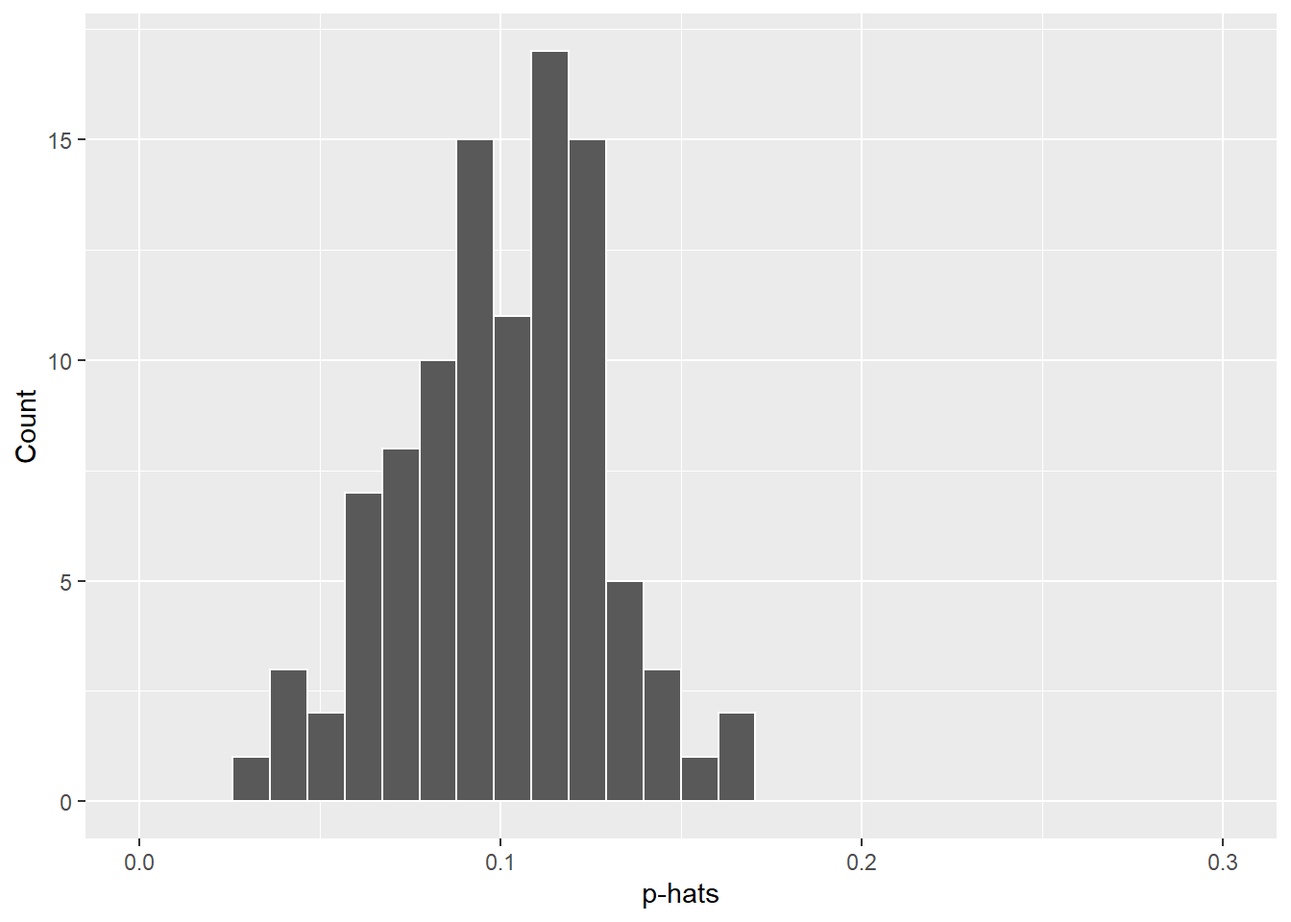
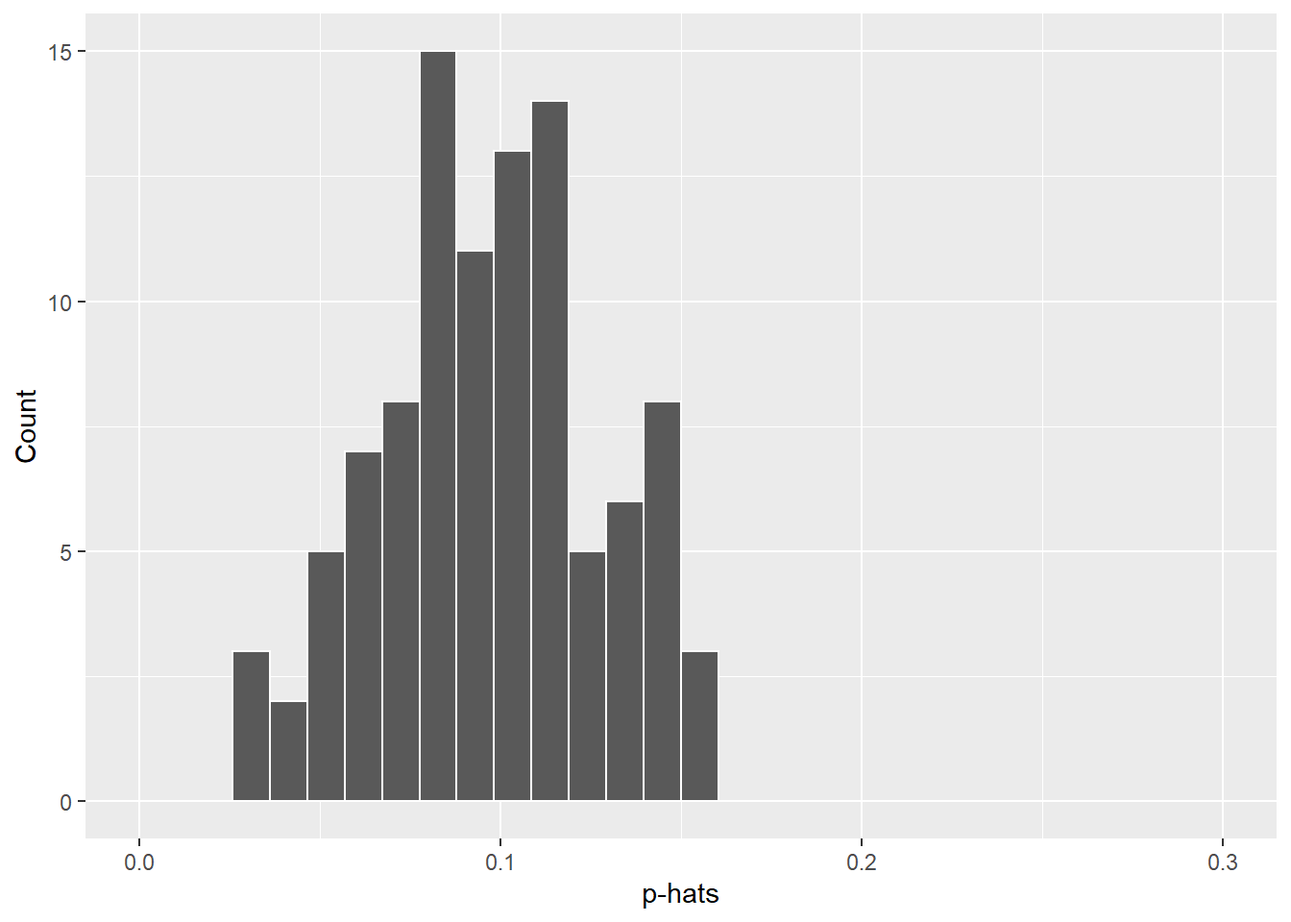
Update 16112022 1702

diff --git a/docs/success-failure-condition.html b/docs/success-failure-condition.html
@@ -163,7 +163,6 @@ code span.wa { color: #60a0b0; font-weight: bold; font-style: italic; } /* Warni
 <li class="chapter" data-level="" data-path="group-tasks.html"><a href="group-tasks.html#task-2"><i class="fa fa-check"></i>Task 2</a></li>
 <li class="chapter" data-level="" data-path="group-tasks.html"><a href="group-tasks.html#task-3"><i class="fa fa-check"></i>Task 3</a></li>
 <li class="chapter" data-level="" data-path="group-tasks.html"><a href="group-tasks.html#task-4"><i class="fa fa-check"></i>Task 4</a></li>
-<li class="chapter" data-level="" data-path="group-tasks.html"><a href="group-tasks.html#task-5"><i class="fa fa-check"></i>Task 5</a></li>
 </ul></li>
 </ul>
 
@@ -191,11 +190,11 @@ thumb is easy enough to follow, but it makes you wonder: what's so special about
 <p>Using the numerical and graphical summaries below, describe the sampling distribution of sample proportions at <span class="math inline">\(n=100\)</span> and <span class="math inline">\(p=0.1\)</span>. Be sure to note the centre, spread, and shape.</p>
 <p><img src="main_files/figure-html/plotex6-1.png" width="672" style="display: block; margin: auto;" /></p>
 <pre><code>##    Min. 1st Qu.  Median    Mean 3rd Qu.    Max. 
-## 0.03382 0.08240 0.10039 0.10006 0.11924 0.16539</code></pre>
+## 0.02944 0.07877 0.09666 0.09735 0.11469 0.16014</code></pre>
 <p><br></p>
 <strong>Describe the sampling distribution of sample proportions at n=100 and p=0.1. Consider the centre, spread, and shape.</strong>
-<div id="radio_IIVNVIXPEM" class="webex-radiogroup">
-<label><input type="radio" autocomplete="off" name="radio_IIVNVIXPEM" value=""></input> <span>The distribution seems approximately Normal, centred around n=100 and a relatively large spread/standard deviation since n=100 isn’t particularly large.</span></label><label><input type="radio" autocomplete="off" name="radio_IIVNVIXPEM" value="answer"></input> <span>The distribution seems approximately Normal, centred around the mean (approximately equal to p) and a relatively large spread/standard deviation since n=100 isn’t particularly large.</span></label><label><input type="radio" autocomplete="off" name="radio_IIVNVIXPEM" value=""></input> <span>The distribution seems approximately Binomial, centred around the median and a tiny spread/standard deviation since n=100 is huge.</span></label><label><input type="radio" autocomplete="off" name="radio_IIVNVIXPEM" value=""></input> <span>The distribution seems approximately Poisson, centred around the mean (approximately equal to p) and a relatively large spread/standard deviation since n=100 isn’t particularly large.</span></label>
+<div id="radio_VFGQLCTIKZ" class="webex-radiogroup">
+<label><input type="radio" autocomplete="off" name="radio_VFGQLCTIKZ" value=""></input> <span>The distribution seems approximately Poisson, centred around the mean (approximately equal to p) and a relatively large spread/standard deviation since n=100 isn’t particularly large.</span></label><label><input type="radio" autocomplete="off" name="radio_VFGQLCTIKZ" value=""></input> <span>The distribution seems approximately Normal, centred around n=100 and a relatively large spread/standard deviation since n=100 isn’t particularly large.</span></label><label><input type="radio" autocomplete="off" name="radio_VFGQLCTIKZ" value="answer"></input> <span>The distribution seems approximately Normal, centred around the mean (approximately equal to p) and a relatively large spread/standard deviation since n=100 isn’t particularly large.</span></label><label><input type="radio" autocomplete="off" name="radio_VFGQLCTIKZ" value=""></input> <span>The distribution seems approximately Binomial, centred around the median and a tiny spread/standard deviation since n=100 is huge.</span></label>
 </div>
 <div class="webex-solution">
 <button>
@@ -228,8 +227,8 @@ Solution
 </div>
 <p><br></p>
 <strong>How does <span class="math inline">\(n\)</span> appear to affect the distribution of p-hat?</strong>
-<div id="radio_HQIYIBWLYS" class="webex-radiogroup">
-<label><input type="radio" autocomplete="off" name="radio_HQIYIBWLYS" value=""></input> <span>There doesn't seem to be any significant effect of n on p-hat.</span></label><label><input type="radio" autocomplete="off" name="radio_HQIYIBWLYS" value="answer"></input> <span>A decrease in n does not appear to affect the centre/symmetric point of the graph, however it does result in a much wider/more spread out distribution.</span></label><label><input type="radio" autocomplete="off" name="radio_HQIYIBWLYS" value=""></input> <span>An increase/decrease in n appears to shift the centre point of the distribution left/right.</span></label><label><input type="radio" autocomplete="off" name="radio_HQIYIBWLYS" value=""></input> <span>An increase in n appears to give a wider, more spread out distribution of p-hat.</span></label>
+<div id="radio_HCNPISYDLK" class="webex-radiogroup">
+<label><input type="radio" autocomplete="off" name="radio_HCNPISYDLK" value="answer"></input> <span>A decrease in n does not appear to affect the centre/symmetric point of the graph, however it does result in a much wider/more spread out distribution.</span></label><label><input type="radio" autocomplete="off" name="radio_HCNPISYDLK" value=""></input> <span>There doesn't seem to be any significant effect of n on p-hat.</span></label><label><input type="radio" autocomplete="off" name="radio_HCNPISYDLK" value=""></input> <span>An increase in n appears to give a wider, more spread out distribution of p-hat.</span></label><label><input type="radio" autocomplete="off" name="radio_HCNPISYDLK" value=""></input> <span>An increase/decrease in n appears to shift the centre point of the distribution left/right.</span></label>
 </div>
 <div class="webex-solution">
 <button>
@@ -264,8 +263,8 @@ Solution
 </div>
 <p><br></p>
 <strong>How does <span class="math inline">\(p\)</span> appear to affect the distribution of p-hat?</strong>
-<div id="radio_XQRONUEPVB" class="webex-radiogroup">
-<label><input type="radio" autocomplete="off" name="radio_XQRONUEPVB" value=""></input> <span>Increasing p shifts the centre/symmetric point of the distribution to the left.</span></label><label><input type="radio" autocomplete="off" name="radio_XQRONUEPVB" value=""></input> <span>There doesn't seem to be any significant effect of p on p-hat.</span></label><label><input type="radio" autocomplete="off" name="radio_XQRONUEPVB" value=""></input> <span>The width/spread of the distribution also decreases as p decreases.</span></label><label><input type="radio" autocomplete="off" name="radio_XQRONUEPVB" value="answer"></input> <span>A decrease in p does not appear to affect the width, however the centre/symmetric point shifts.</span></label>
+<div id="radio_DEZXKQQLWG" class="webex-radiogroup">
+<label><input type="radio" autocomplete="off" name="radio_DEZXKQQLWG" value=""></input> <span>There doesn't seem to be any significant effect of p on p-hat.</span></label><label><input type="radio" autocomplete="off" name="radio_DEZXKQQLWG" value="answer"></input> <span>A decrease in p does not appear to affect the width, however the centre/symmetric point shifts.</span></label><label><input type="radio" autocomplete="off" name="radio_DEZXKQQLWG" value=""></input> <span>Increasing p shifts the centre/symmetric point of the distribution to the left.</span></label><label><input type="radio" autocomplete="off" name="radio_DEZXKQQLWG" value=""></input> <span>The width/spread of the distribution also decreases as p decreases.</span></label>
 </div>
 <div class="webex-solution">
 <button>

diff --git a/docs/how-does-the-proportion-affect-the-margin-of-error.html b/docs/how-does-the-proportion-affect-the-margin-of-error.html
@@ -163,7 +163,6 @@ code span.wa { color: #60a0b0; font-weight: bold; font-style: italic; } /* Warni
 <li class="chapter" data-level="" data-path="group-tasks.html"><a href="group-tasks.html#task-2"><i class="fa fa-check"></i>Task 2</a></li>
 <li class="chapter" data-level="" data-path="group-tasks.html"><a href="group-tasks.html#task-3"><i class="fa fa-check"></i>Task 3</a></li>
 <li class="chapter" data-level="" data-path="group-tasks.html"><a href="group-tasks.html#task-4"><i class="fa fa-check"></i>Task 4</a></li>
-<li class="chapter" data-level="" data-path="group-tasks.html"><a href="group-tasks.html#task-5"><i class="fa fa-check"></i>Task 5</a></li>
 </ul></li>
 </ul>
 
@@ -207,8 +206,8 @@ Since the population proportion <span class="math inline">\(p\)</span> is in thi
 <p><img src="main_files/figure-html/me-plot-1.png" width="672" style="display: block; margin: auto;" /></p>
 <p><br></p>
 <strong>How would you describe the relationship between <code>p</code> and <code>ME</code>?</strong>
-<div id="radio_BZEHSGKLOT" class="webex-radiogroup">
-<label><input type="radio" autocomplete="off" name="radio_BZEHSGKLOT" value=""></input> <span>They have an inverse cubic relationship.</span></label><label><input type="radio" autocomplete="off" name="radio_BZEHSGKLOT" value=""></input> <span>They have a linear relationship.</span></label><label><input type="radio" autocomplete="off" name="radio_BZEHSGKLOT" value=""></input> <span>p and ME do not appear to be related.</span></label><label><input type="radio" autocomplete="off" name="radio_BZEHSGKLOT" value="answer"></input> <span>p and ME have a quadratic or parabolic relationship.</span></label>
+<div id="radio_TJOGIYCNIS" class="webex-radiogroup">
+<label><input type="radio" autocomplete="off" name="radio_TJOGIYCNIS" value=""></input> <span>They have an inverse cubic relationship.</span></label><label><input type="radio" autocomplete="off" name="radio_TJOGIYCNIS" value=""></input> <span>They have a linear relationship.</span></label><label><input type="radio" autocomplete="off" name="radio_TJOGIYCNIS" value=""></input> <span>p and ME do not appear to be related.</span></label><label><input type="radio" autocomplete="off" name="radio_TJOGIYCNIS" value="answer"></input> <span>p and ME have a quadratic or parabolic relationship.</span></label>
 </div>
 <div class="webex-solution">
 <button>
@@ -218,8 +217,8 @@ Hint
 </div>
 <p><br></p>
 <strong>Select the INCORRECT statement:</strong>
-<div id="radio_VQAPWKJOKU" class="webex-radiogroup">
-<label><input type="radio" autocomplete="off" name="radio_VQAPWKJOKU" value=""></input> <span>If we were to increase the sample size n, the margin of error would decrease.</span></label><label><input type="radio" autocomplete="off" name="radio_VQAPWKJOKU" value=""></input> <span>You can work out exactly for which value of p the margin of error is maximised mathematically using differentiation.</span></label><label><input type="radio" autocomplete="off" name="radio_VQAPWKJOKU" value="answer"></input> <span>Changing the value of n would make no difference to the graph.</span></label><label><input type="radio" autocomplete="off" name="radio_VQAPWKJOKU" value=""></input> <span>If we lower our confidence value, say from 95% to 90%, the the margin of error would decrease.</span></label>
+<div id="radio_IQRBMXPWPH" class="webex-radiogroup">
+<label><input type="radio" autocomplete="off" name="radio_IQRBMXPWPH" value="answer"></input> <span>Changing the value of n would make no difference to the graph.</span></label><label><input type="radio" autocomplete="off" name="radio_IQRBMXPWPH" value=""></input> <span>You can work out exactly for which value of p the margin of error is maximised mathematically using differentiation.</span></label><label><input type="radio" autocomplete="off" name="radio_IQRBMXPWPH" value=""></input> <span>If we were to increase the sample size n, the margin of error would decrease.</span></label><label><input type="radio" autocomplete="off" name="radio_IQRBMXPWPH" value=""></input> <span>If we lower our confidence value, say from 95% to 90%, the the margin of error would decrease.</span></label>
 </div>
 <div class="webex-solution">
 <button>
@@ -231,8 +230,8 @@ Hint
 <!-- Is this the relationship you expected based on the formula $ME = 1.96\times\sqrt{p(1-p)/n} \,$ ? -->
 <p><br></p>
 <strong>For a given sample size, for which value of <span class="math inline">\(p\)</span> is the margin of error (<span class="math inline">\(ME\)</span>) maximized?</strong>
-<div id="radio_JQVUIARIIB" class="webex-radiogroup">
-<label><input type="radio" autocomplete="off" name="radio_JQVUIARIIB" value="answer"></input> <span>ME is maximised when p = 0.5</span></label><label><input type="radio" autocomplete="off" name="radio_JQVUIARIIB" value=""></input> <span>ME is maximised when p = 1</span></label><label><input type="radio" autocomplete="off" name="radio_JQVUIARIIB" value=""></input> <span>ME is maximised when p = 0</span></label><label><input type="radio" autocomplete="off" name="radio_JQVUIARIIB" value=""></input> <span>ME is maximised when p = 0.33, or a third.</span></label>
+<div id="radio_RXPPKEBZSG" class="webex-radiogroup">
+<label><input type="radio" autocomplete="off" name="radio_RXPPKEBZSG" value=""></input> <span>ME is maximised when p = 0.33, or a third.</span></label><label><input type="radio" autocomplete="off" name="radio_RXPPKEBZSG" value="answer"></input> <span>ME is maximised when p = 0.5</span></label><label><input type="radio" autocomplete="off" name="radio_RXPPKEBZSG" value=""></input> <span>ME is maximised when p = 1</span></label><label><input type="radio" autocomplete="off" name="radio_RXPPKEBZSG" value=""></input> <span>ME is maximised when p = 0</span></label>
 </div>
 <div class="webex-solution">
 <button>

diff --git a/docs/inference-on-proportions.html b/docs/inference-on-proportions.html
@@ -163,7 +163,6 @@ code span.wa { color: #60a0b0; font-weight: bold; font-style: italic; } /* Warni
 <li class="chapter" data-level="" data-path="group-tasks.html"><a href="group-tasks.html#task-2"><i class="fa fa-check"></i>Task 2</a></li>
 <li class="chapter" data-level="" data-path="group-tasks.html"><a href="group-tasks.html#task-3"><i class="fa fa-check"></i>Task 3</a></li>
 <li class="chapter" data-level="" data-path="group-tasks.html"><a href="group-tasks.html#task-4"><i class="fa fa-check"></i>Task 4</a></li>
-<li class="chapter" data-level="" data-path="group-tasks.html"><a href="group-tasks.html#task-5"><i class="fa fa-check"></i>Task 5</a></li>
 </ul></li>
 </ul>
 
@@ -222,8 +221,8 @@ Solution
 </div>
 <p><br></p>
 <strong>What could you interpret from this confidence interval?</strong>
-<div id="radio_DGWQZLUOUG" class="webex-radiogroup">
-<label><input type="radio" autocomplete="off" name="radio_DGWQZLUOUG" value=""></input> <span>The proportion we calculated in outside of the interval calculated here, therefore we cannot make any valid interpretations.</span></label><label><input type="radio" autocomplete="off" name="radio_DGWQZLUOUG" value=""></input> <span>We are 95% confident the true proportion of non-helmet wearing students that texted while driving in all 30 of the previous 30 days is exactly 0.076, since this is inside the confidence interval.</span></label><label><input type="radio" autocomplete="off" name="radio_DGWQZLUOUG" value="answer"></input> <span>We are 95% confident the true proportion of non-helmet wearing students that texted while driving in all 30 of the previous 30 days is somewhere between 0.069 and 0.084.</span></label><label><input type="radio" autocomplete="off" name="radio_DGWQZLUOUG" value=""></input> <span>We are 90% confident the true proportion of non-helmet wearing students that texted while driving in all 30 of the previous 30 days is somewhere between 0.069 and 0.084.</span></label>
+<div id="radio_AJEPUOXPMI" class="webex-radiogroup">
+<label><input type="radio" autocomplete="off" name="radio_AJEPUOXPMI" value="answer"></input> <span>We are 95% confident the true proportion of non-helmet wearing students that texted while driving in all 30 of the previous 30 days is somewhere between 0.069 and 0.084.</span></label><label><input type="radio" autocomplete="off" name="radio_AJEPUOXPMI" value=""></input> <span>The proportion we calculated in outside of the interval calculated here, therefore we cannot make any valid interpretations.</span></label><label><input type="radio" autocomplete="off" name="radio_AJEPUOXPMI" value=""></input> <span>We are 90% confident the true proportion of non-helmet wearing students that texted while driving in all 30 of the previous 30 days is somewhere between 0.069 and 0.084.</span></label><label><input type="radio" autocomplete="off" name="radio_AJEPUOXPMI" value=""></input> <span>We are 95% confident the true proportion of non-helmet wearing students that texted while driving in all 30 of the previous 30 days is exactly 0.076, since this is inside the confidence interval.</span></label>
 </div>
 <div class="webex-solution">
 <button>
@@ -334,8 +333,8 @@ Solution (b)
 </div>
 <p><br></p>
 <strong>How could you compare the two CI for proportions calculated above?</strong>
-<div id="radio_PYGCMDONFT" class="webex-radiogroup">
-<label><input type="radio" autocomplete="off" name="radio_PYGCMDONFT" value="answer"></input> <span>The proportion of non helmet wearing strength trainers is probably much greater than the proportion of non-helmet wearing people with less than 5 hours sleep, since the CI is far above.</span></label><label><input type="radio" autocomplete="off" name="radio_PYGCMDONFT" value=""></input> <span>The proportion of non-helmet wearing strength trainers probably equals the proportion of non-helmet wearing students that gets less than 5 hours sleep.</span></label><label><input type="radio" autocomplete="off" name="radio_PYGCMDONFT" value=""></input> <span>We can make no comparisons between the two groups whatsoever at this stage of the analysis.</span></label><label><input type="radio" autocomplete="off" name="radio_PYGCMDONFT" value=""></input> <span>The CI for the proportion of non-helmet wearing strength trainers seems far wider than the CI for the proportion of non-helmet wearing students with less than 5 hours sleep.</span></label>
+<div id="radio_ZIHFIUKLLV" class="webex-radiogroup">
+<label><input type="radio" autocomplete="off" name="radio_ZIHFIUKLLV" value="answer"></input> <span>The proportion of non helmet wearing strength trainers is probably much greater than the proportion of non-helmet wearing people with less than 5 hours sleep, since the CI is far above.</span></label><label><input type="radio" autocomplete="off" name="radio_ZIHFIUKLLV" value=""></input> <span>We can make no comparisons between the two groups whatsoever at this stage of the analysis.</span></label><label><input type="radio" autocomplete="off" name="radio_ZIHFIUKLLV" value=""></input> <span>The CI for the proportion of non-helmet wearing strength trainers seems far wider than the CI for the proportion of non-helmet wearing students with less than 5 hours sleep.</span></label><label><input type="radio" autocomplete="off" name="radio_ZIHFIUKLLV" value=""></input> <span>The proportion of non-helmet wearing strength trainers probably equals the proportion of non-helmet wearing students that gets less than 5 hours sleep.</span></label>
 </div>
 <div class="webex-solution">
 <button>

diff --git a/docs/group-tasks.html b/docs/group-tasks.html
@@ -163,7 +163,6 @@ code span.wa { color: #60a0b0; font-weight: bold; font-style: italic; } /* Warni
 <li class="chapter" data-level="" data-path="group-tasks.html"><a href="group-tasks.html#task-2"><i class="fa fa-check"></i>Task 2</a></li>
 <li class="chapter" data-level="" data-path="group-tasks.html"><a href="group-tasks.html#task-3"><i class="fa fa-check"></i>Task 3</a></li>
 <li class="chapter" data-level="" data-path="group-tasks.html"><a href="group-tasks.html#task-4"><i class="fa fa-check"></i>Task 4</a></li>
-<li class="chapter" data-level="" data-path="group-tasks.html"><a href="group-tasks.html#task-5"><i class="fa fa-check"></i>Task 5</a></li>
 </ul></li>
 </ul>
 
@@ -218,9 +217,6 @@ code span.wa { color: #60a0b0; font-weight: bold; font-style: italic; } /* Warni
 <label><input type="radio" autocomplete="off" name="radio_GVFNVHHBPV" value=""></input> <span>The two confidence intervals do not overlap, therefore there is no evidence of the USA seeing a change in it's atheism index</span></label><label><input type="radio" autocomplete="off" name="radio_GVFNVHHBPV" value="answer"></input> <span>The two confidence intervals do not overlap, therefore there is evidence of the USA seeing a change in it's atheism index
 </span></label><label><input type="radio" autocomplete="off" name="radio_GVFNVHHBPV" value=""></input> <span>The two confidence intervals overlap, therefore there is no evidence of the USA seeing a change in it's atheism index</span></label><label><input type="radio" autocomplete="off" name="radio_GVFNVHHBPV" value=""></input> <span>The two confidence intervals overlap, therefore there is evidence of the USA seeing a change in it's atheism index</span></label>
 </div>
-</div>
-<div id="task-4" class="section level3 unnumbered hasAnchor">
-<h3>Task 4<a href="group-tasks.html#task-4" class="anchor-section" aria-label="Anchor link to header"></a></h3>
 <p><strong>If in reality there has been no change in the atheism index in <em>any</em> of the countries, in how many of the countries would you expect to detect a change (at a significance level of 0.05) simply by chance?</strong> <em>(to the nearest whole number)</em>
 <input class='webex-solveme nospaces' size='1' data-answer='["3"]'/></p>
 <div class="webex-solution">
@@ -230,8 +226,8 @@ Hint
 <p>We need to take the probability of a Type 1 error (rejecting the null hypothesis when <span class="math inline">\(H_0\)</span> is actually true) and times it by 57 (the number of countries within <code>atheism</code>). The probability of a Type 1 error is simply the significance level alpha, in this case, 0.05.</p>
 </div>
 </div>
-<div id="task-5" class="section level3 unnumbered hasAnchor">
-<h3>Task 5<a href="group-tasks.html#task-5" class="anchor-section" aria-label="Anchor link to header"></a></h3>
+<div id="task-4" class="section level3 unnumbered hasAnchor">
+<h3>Task 4<a href="group-tasks.html#task-4" class="anchor-section" aria-label="Anchor link to header"></a></h3>
 <p>Suppose you’re hired by the local government to estimate the proportion of residents that attend a religious service on a weekly basis. According to the guidelines, the estimate must have a margin of error no greater than 1% with 95% confidence. You have no idea what to expect for <span class="math inline">\(p\)</span>, so assume <span class="math inline">\(p=0.5\)</span>. Use <code>R</code> as a calculator to determine how many people would you have to sample to ensure that you are within the guidelines?</p>
 <p><strong>Note</strong> You don't need to use the <code>atheism</code> data set to answer this question.</p>
 

diff --git a/docs/inference-for-categorical-data.html b/docs/inference-for-categorical-data.html
@@ -163,7 +163,6 @@ code span.wa { color: #60a0b0; font-weight: bold; font-style: italic; } /* Warni
 <li class="chapter" data-level="" data-path="group-tasks.html"><a href="group-tasks.html#task-2"><i class="fa fa-check"></i>Task 2</a></li>
 <li class="chapter" data-level="" data-path="group-tasks.html"><a href="group-tasks.html#task-3"><i class="fa fa-check"></i>Task 3</a></li>
 <li class="chapter" data-level="" data-path="group-tasks.html"><a href="group-tasks.html#task-4"><i class="fa fa-check"></i>Task 4</a></li>
-<li class="chapter" data-level="" data-path="group-tasks.html"><a href="group-tasks.html#task-5"><i class="fa fa-check"></i>Task 5</a></li>
 </ul></li>
 </ul>
 
@@ -240,8 +239,8 @@ Solution
 </div>
 <p><br></p>
 <strong>Which category has the highest count?</strong>
-<div id="radio_JNQZPULECS" class="webex-radiogroup">
-<label><input type="radio" autocomplete="off" name="radio_JNQZPULECS" value=""></input> <span>All 30 of the last 30 days.</span></label><label><input type="radio" autocomplete="off" name="radio_JNQZPULECS" value=""></input> <span>6-9 of the last 30 days</span></label><label><input type="radio" autocomplete="off" name="radio_JNQZPULECS" value="answer"></input> <span>0 of the last 30 days</span></label><label><input type="radio" autocomplete="off" name="radio_JNQZPULECS" value=""></input> <span>The students that didn't drive</span></label>
+<div id="radio_NLUNUQMALK" class="webex-radiogroup">
+<label><input type="radio" autocomplete="off" name="radio_NLUNUQMALK" value=""></input> <span>6-9 of the last 30 days</span></label><label><input type="radio" autocomplete="off" name="radio_NLUNUQMALK" value=""></input> <span>All 30 of the last 30 days.</span></label><label><input type="radio" autocomplete="off" name="radio_NLUNUQMALK" value="answer"></input> <span>0 of the last 30 days</span></label><label><input type="radio" autocomplete="off" name="radio_NLUNUQMALK" value=""></input> <span>The students that didn't drive</span></label>
 </div>
 <div class="webex-solution">
 <button>

diff --git a/docs/404.html b/docs/404.html
@@ -163,7 +163,6 @@ code span.wa { color: #60a0b0; font-weight: bold; font-style: italic; } /* Warni
 <li class="chapter" data-level="" data-path="group-tasks.html"><a href="group-tasks.html#task-2"><i class="fa fa-check"></i>Task 2</a></li>
 <li class="chapter" data-level="" data-path="group-tasks.html"><a href="group-tasks.html#task-3"><i class="fa fa-check"></i>Task 3</a></li>
 <li class="chapter" data-level="" data-path="group-tasks.html"><a href="group-tasks.html#task-4"><i class="fa fa-check"></i>Task 4</a></li>
-<li class="chapter" data-level="" data-path="group-tasks.html"><a href="group-tasks.html#task-5"><i class="fa fa-check"></i>Task 5</a></li>
 </ul></li>
 </ul>
 

diff --git a/docs/data.html b/docs/data.html
@@ -163,7 +163,6 @@ code span.wa { color: #60a0b0; font-weight: bold; font-style: italic; } /* Warni
 <li class="chapter" data-level="" data-path="group-tasks.html"><a href="group-tasks.html#task-2"><i class="fa fa-check"></i>Task 2</a></li>
 <li class="chapter" data-level="" data-path="group-tasks.html"><a href="group-tasks.html#task-3"><i class="fa fa-check"></i>Task 3</a></li>
 <li class="chapter" data-level="" data-path="group-tasks.html"><a href="group-tasks.html#task-4"><i class="fa fa-check"></i>Task 4</a></li>
-<li class="chapter" data-level="" data-path="group-tasks.html"><a href="group-tasks.html#task-5"><i class="fa fa-check"></i>Task 5</a></li>
 </ul></li>
 </ul>
 

diff --git a/docs/index.html b/docs/index.html
@@ -163,7 +163,6 @@ code span.wa { color: #60a0b0; font-weight: bold; font-style: italic; } /* Warni
 <li class="chapter" data-level="" data-path="group-tasks.html"><a href="group-tasks.html#task-2"><i class="fa fa-check"></i>Task 2</a></li>
 <li class="chapter" data-level="" data-path="group-tasks.html"><a href="group-tasks.html#task-3"><i class="fa fa-check"></i>Task 3</a></li>
 <li class="chapter" data-level="" data-path="group-tasks.html"><a href="group-tasks.html#task-4"><i class="fa fa-check"></i>Task 4</a></li>
-<li class="chapter" data-level="" data-path="group-tasks.html"><a href="group-tasks.html#task-5"><i class="fa fa-check"></i>Task 5</a></li>
 </ul></li>
 </ul>
 
